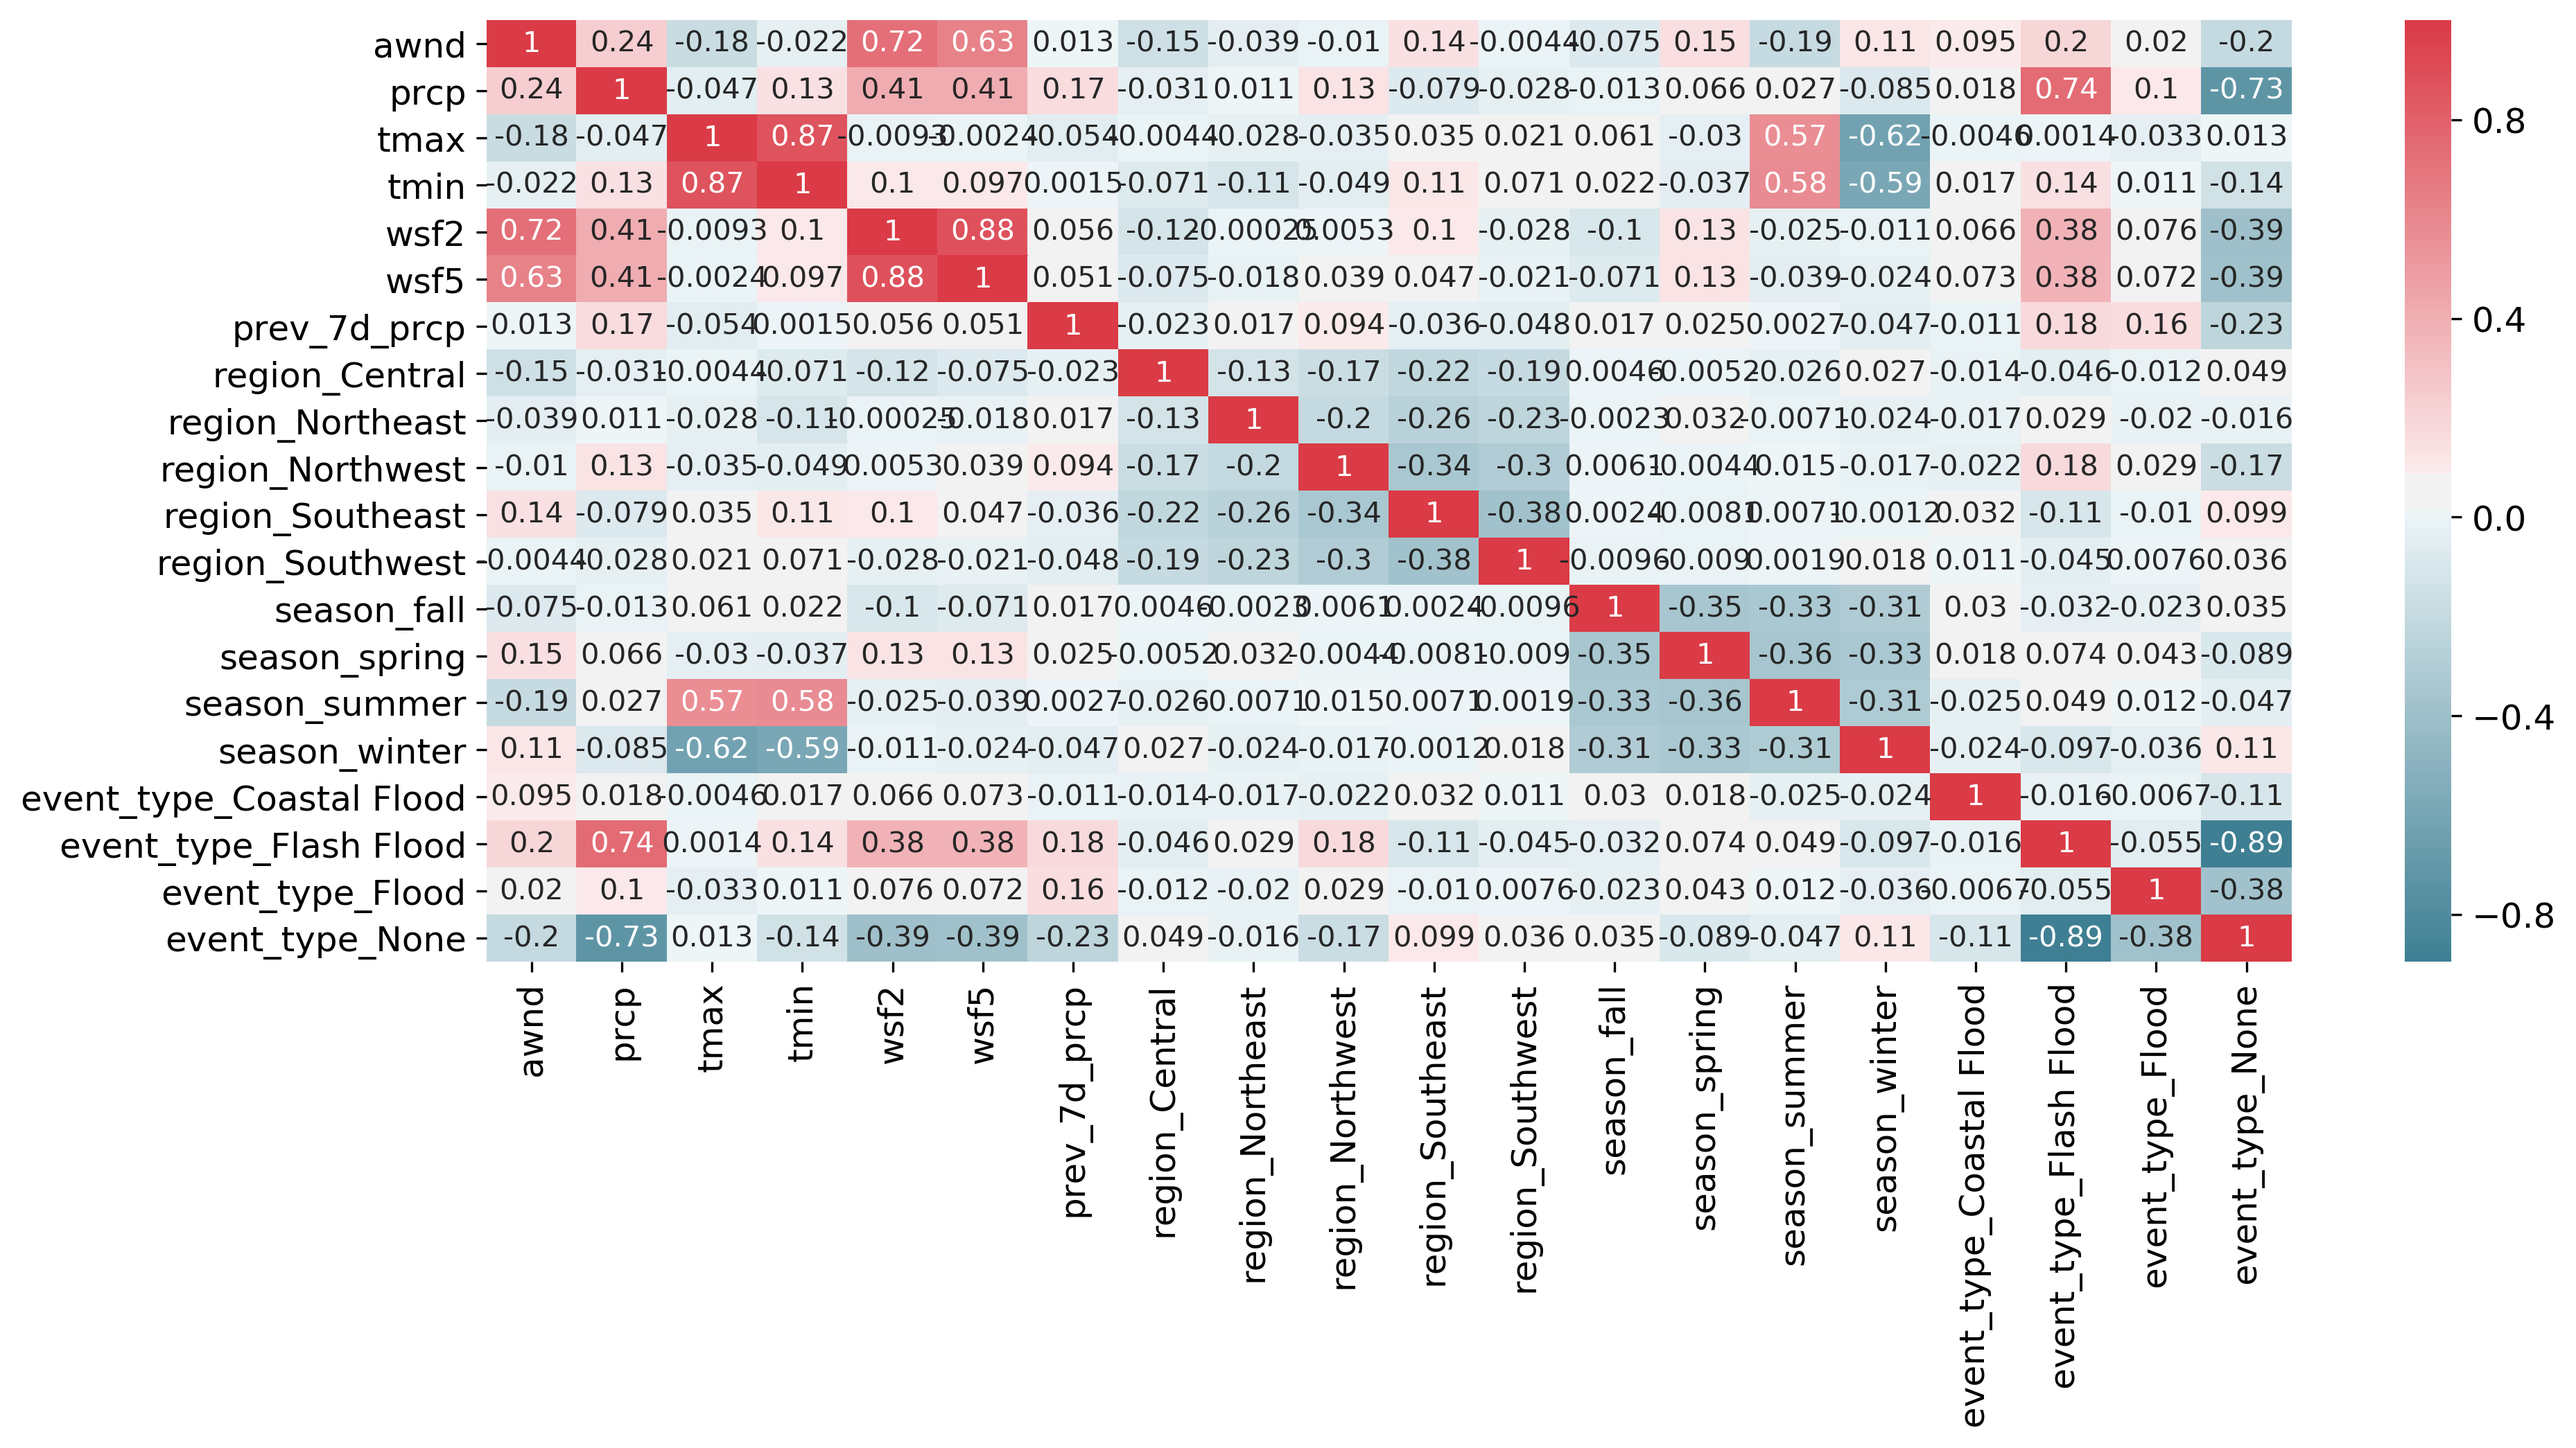
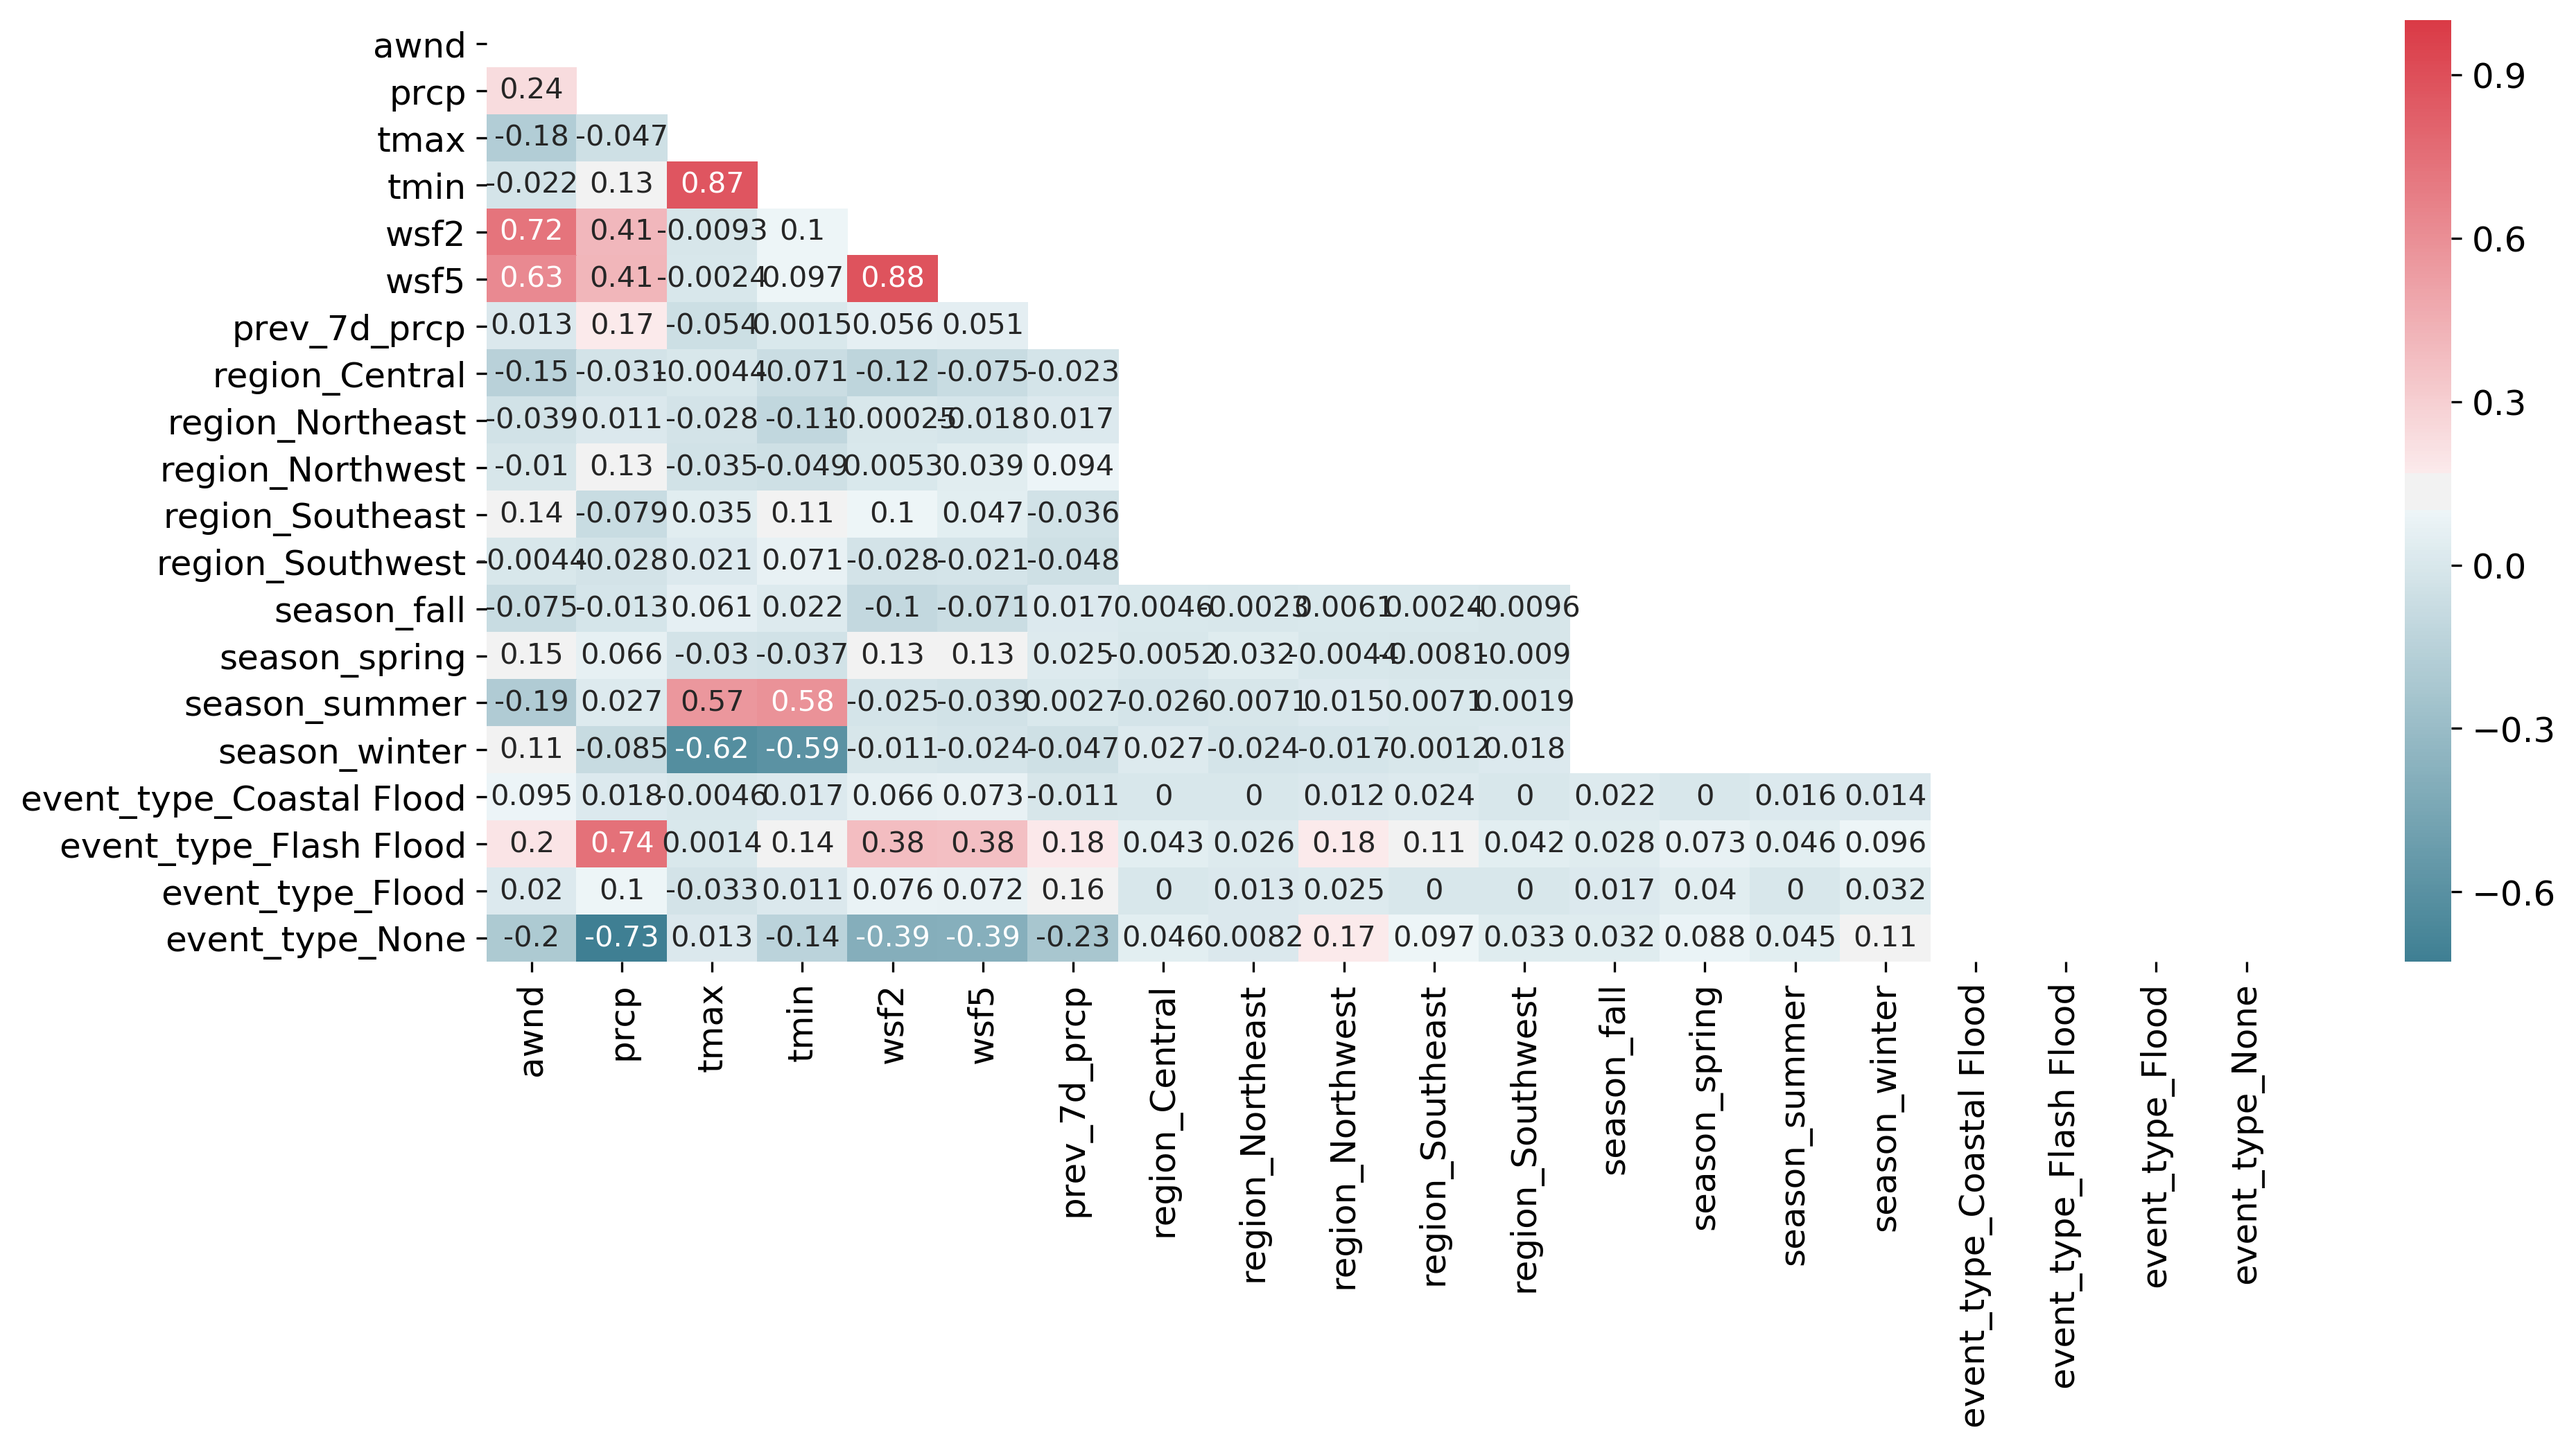
Updated milestone report

diff --git a/docs/milestone-report.md b/docs/milestone-report.md
@@ -39,28 +39,31 @@ The station data was aggregated to represent the parish in its entirety by takin
 
 The average of hourly temperature values variable was dropped because there was a lot of missing data (~74%). For rows with null storm events data, a new event type called "None" was created indicating that no event happened on these days. There were 2,202 flood event types (Coastal Flood, Flash Flood, and Flood), but only 812 rows with complete meteorological data.
 
-5,000 samples were sampled for none events that occurred in parishes and years that a flood event occurred. A new feature representing the previous 7 day total precipitation was created. Rows were dropped if there was less than 4 previous days of data. Another feature representing region was created with possible values being Northwest, Northeast, Central, Southwest, and Southeast. Finally, a season feature was created (winter, spring, summer, fall). The final DataFrame had 5,812 rows.
+5,000 samples were sampled for none events that occurred in parishes and years that a flood event occurred. A new feature representing the previous 7-day total precipitation was created. Rows were dropped if there were less than 4 previous days of data. Another feature representing region was created with possible values being Northwest, Northeast, Central, Southwest, and Southeast. Finally, a season feature was created (winter, spring, summer, fall). The final DataFrame had 5,812 rows.
 
 ## Exploratory Analysis Summary
 
 There were 668 flash floods, 132 floods, and 11 coastal floods in the dataset (Figure 2).
+
 ![flood counts](img/flood_counts.png)
 **Figure 2**. Counts of each flood event type.
+
+Precipitation will likely be the most important feature (Figure 3). As expected, no events generally have the least amount of precipitation while flash floods have the most amount of precipitation.
 
 ![precipitation distribution](img/precip_box.png)
 **Figure 3**. Distribution of precipitation by event.
 
+Interestingly, coastal floods have the least amount of previous 7-day precipitation (Figure 4). Coastal flooding is when a coastal process (e.g., waves, tides, storm surge) produces a flood on normally dry land areas ([Source](https://www.researchgate.net/publication/259740986_Coastal_Hazards_and_Climate_Change_A_Guidance_Manual_for_Local_Government_in_New_Zealand)). Additionally, there are only 11 coastal flood events in the dataset. The small sample size and the fact that these events happen in typically dry lands could be a reason why previous 7-day precipitation is lower than no events.
+
 ![previous 7 day precipitation distribution](img/precip_7d_box.png)
 **Figure 4**. Distribution of previous 7-day precipitation by event.
+
+Wind speed is another interesting feature to consider (Figure 5). Coastal flood has a higher average wind speed than the other event types. This is intuitive because these events are caused by coastal processes such as waves, tides, and storm surges, which are strongly influenced by wind.
 
 ![wind distribution](img/wind.png)
 **Figure 5**. Distribution of wind speed by event.
 
-![max temp distribution](img/max_temp.png)
-**Figure 6**. Distribution of maximum temperature by event.
-
-![min temp distribution](img/min_temp.png)
-**Figure 7**. Distribution of minimum temperature by event.
+There different methods were used to find correlation coefficients depending on the type of feature (Figure 8). Pearson's correlation was used for continuous vs. continuous variables [-1, 1]. Point biserial correlation was used for categorical vs. continuous variables [-1, 1]. Cramer's V was used for categorical vs. categorical variables [0, 1].
 
 ![correlation matrix](img/corr_matrix.png)
-**Figure 8**. Correlation matrix for all features.
+**Figure 6**. Correlation matrix for all features.
